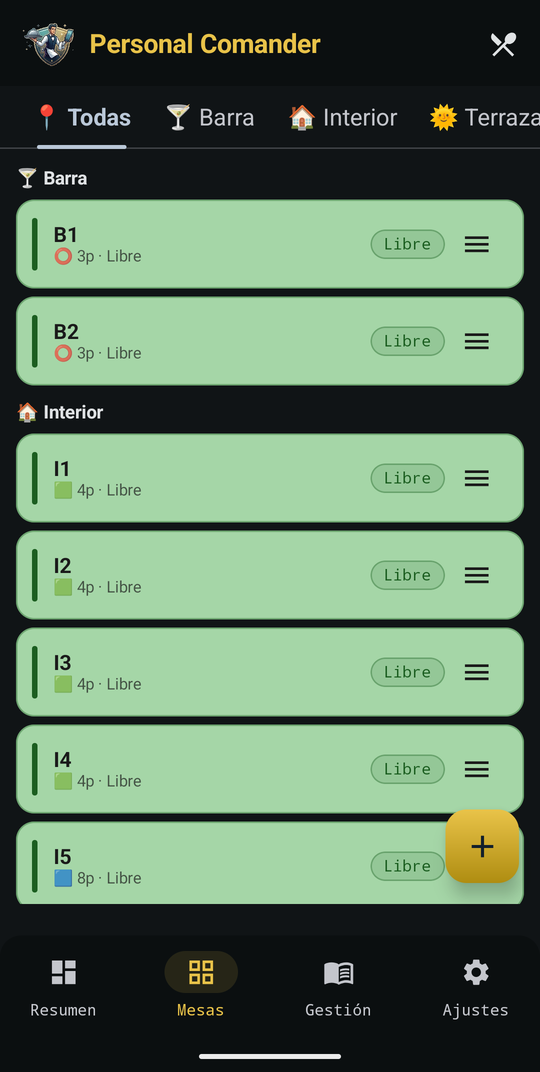
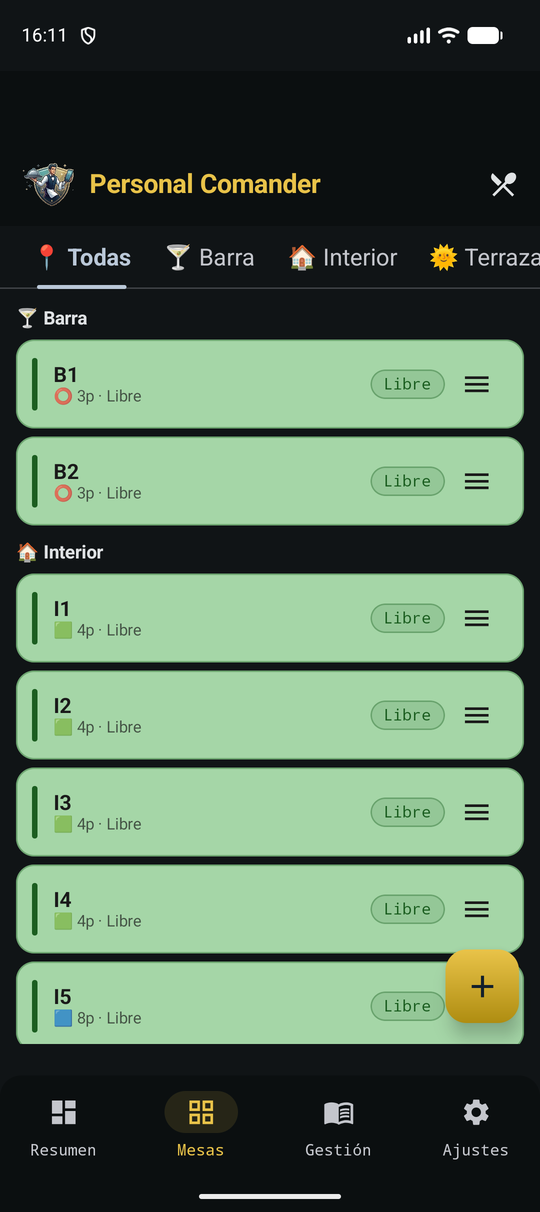
docs(assets): pipeline reproducible de assets + capturas regeneradas con escudo camarero (#33)

diff --git a/scripts/generate_assets.py b/scripts/generate_assets.py
@@ -1,0 +1,66 @@
+#!/usr/bin/env python3
+"""Deriva los assets de marca del sitio MkDocs desde el escudo camarero.
+
+Genera:
+  - docs/assets/logo.png    (128x128, PNG lossless)
+  - docs/assets/favicon.png (32x32,  PNG lossless)
+
+a partir de app/src/main/res/drawable-nodpi/ic_brand_shield.webp (la marca
+actual). El recorte usa el bbox del canal alpha con un umbral para ignorar el
+halo de anti-aliasing, y centra el contenido en un lienzo cuadrado.
+
+Uso:
+    python scripts/generate_assets.py
+"""
+
+from pathlib import Path
+
+from PIL import Image
+
+ROOT = Path(__file__).resolve().parent.parent
+SHIELD = ROOT / "app" / "src" / "main" / "res" / "drawable-nodpi" / "ic_brand_shield.webp"
+OUT_LOGO = ROOT / "docs" / "assets" / "logo.png"
+OUT_FAVICON = ROOT / "docs" / "assets" / "favicon.png"
+
+ALPHA_THRESHOLD = 16  # píxeles con alpha < umbral se tratan como transparentes
+
+
+def trim_alpha(img: Image.Image) -> Image.Image:
+    """Recorta al bbox del contenido visible (canal alpha con umbral)."""
+    alpha = img.getchannel("A")
+    # Mapa de píxeles "opacos" según el umbral; un píxel es contenido si alpha >= umbral.
+    mask = alpha.point(lambda a: 255 if a >= ALPHA_THRESHOLD else 0)
+    bbox = mask.getbbox()
+    if bbox is None:
+        return img  # sin contenido visible: devolver tal cual
+    return img.crop(bbox)
+
+
+def square_canvas(img: Image.Image) -> Image.Image:
+    """Centra la imagen recortada en un lienzo cuadrado (lado = max dimension)."""
+    w, h = img.size
+    side = max(w, h)
+    canvas = Image.new("RGBA", (side, side), (0, 0, 0, 0))
+    canvas.paste(img, ((side - w) // 2, (side - h) // 2), img)
+    return canvas
+
+
+def main() -> None:
+    if not SHIELD.exists():
+        raise SystemExit(f"No se encuentra la marca: {SHIELD}")
+
+    img = Image.open(SHIELD).convert("RGBA")
+    trimmed = trim_alpha(img)
+    squared = square_canvas(trimmed)
+
+    OUT_LOGO.parent.mkdir(parents=True, exist_ok=True)
+
+    squared.resize((128, 128), Image.LANCZOS).save(OUT_LOGO, "PNG")
+    squared.resize((32, 32), Image.LANCZOS).save(OUT_FAVICON, "PNG")
+
+    print(f"logo.png    -> {OUT_LOGO.relative_to(ROOT)} (128x128)")
+    print(f"favicon.png -> {OUT_FAVICON.relative_to(ROOT)} (32x32)")
+
+
+if __name__ == "__main__":
+    main()

diff --git a/README.md b/README.md
@@ -70,6 +70,20 @@ The first launch seeds a demo menu and a default table layout, so you can explor
 4. **Menu** — manage products, prices, categories and icons.
 5. **Settings** — configure the TPV server, import/export backups, and sync the catalog.
 
+## 🖼 Regenerar capturas y assets de marca
+
+Los assets públicos (logo, favicon y capturas de pantalla) se generan con scripts versionados:
+
+```bash
+# Logo y favicon del sitio (desde el escudo de marca ic_brand_shield.webp)
+python scripts/generate_assets.py
+
+# Capturas de pantalla (requiere un emulador activo)
+bash scripts/capture_screens.sh
+```
+
+Ejecútalos después de cualquier cambio de marca o rediseño de UI para mantener coherentes el README, el sitio y la wiki.
+
 ## 🏗 Architecture
 
 | Layer | Technology |

diff --git a/README.es.md b/README.es.md
@@ -70,6 +70,20 @@ En el primer arranque la app crea un menú de demostración y un plano de mesas 
 4. **Menú** — gestiona productos, precios, categorías e iconos.
 5. **Ajustes** — configura el servidor TPV, importa/exporta copias y sincroniza el catálogo.
 
+## 🖼 Regenerar capturas y assets de marca
+
+Los assets públicos (logo, favicon y capturas) se generan con scripts versionados:
+
+```bash
+# Logo y favicon del sitio (desde el escudo de marca ic_brand_shield.webp)
+python scripts/generate_assets.py
+
+# Capturas de pantalla (requiere un emulador activo)
+bash scripts/capture_screens.sh
+```
+
+Ejecútalos tras cualquier cambio de marca o rediseño de UI para mantener coherentes el README, el sitio y la wiki.
+
 ## 🏗 Arquitectura
 
 | Capa | Tecnología |

diff --git a/AGENTS.md b/AGENTS.md
@@ -409,4 +409,15 @@ emulador.bat                  # launches Pixel_9a AVD
 .kanbanrc.json.template       # versioned reproducible reference
 ```
 
+### Assets de marca y capturas (pipeline reproducible)
+
+Los assets públicos (`docs/assets/logo.png`, `docs/assets/favicon.png`, `docs/screenshots/*.png`) se regeneran con scripts versionados, NO a mano:
+
+```bash
+python scripts/generate_assets.py   # logo + favicon desde ic_brand_shield.webp (Pillow)
+bash scripts/capture_screens.sh     # 4 capturas desde emulador (adb + uiautomator)
+```
+
+Ejecutarlos tras cada rebranding/rediseño de UI para no desincronizar README/sitio/wiki.
+
 `.agents/skills/` contains installed skills (via `npx skills`). `.claude/`, `skills-lock.json` are agent-specific — all gitignored.
